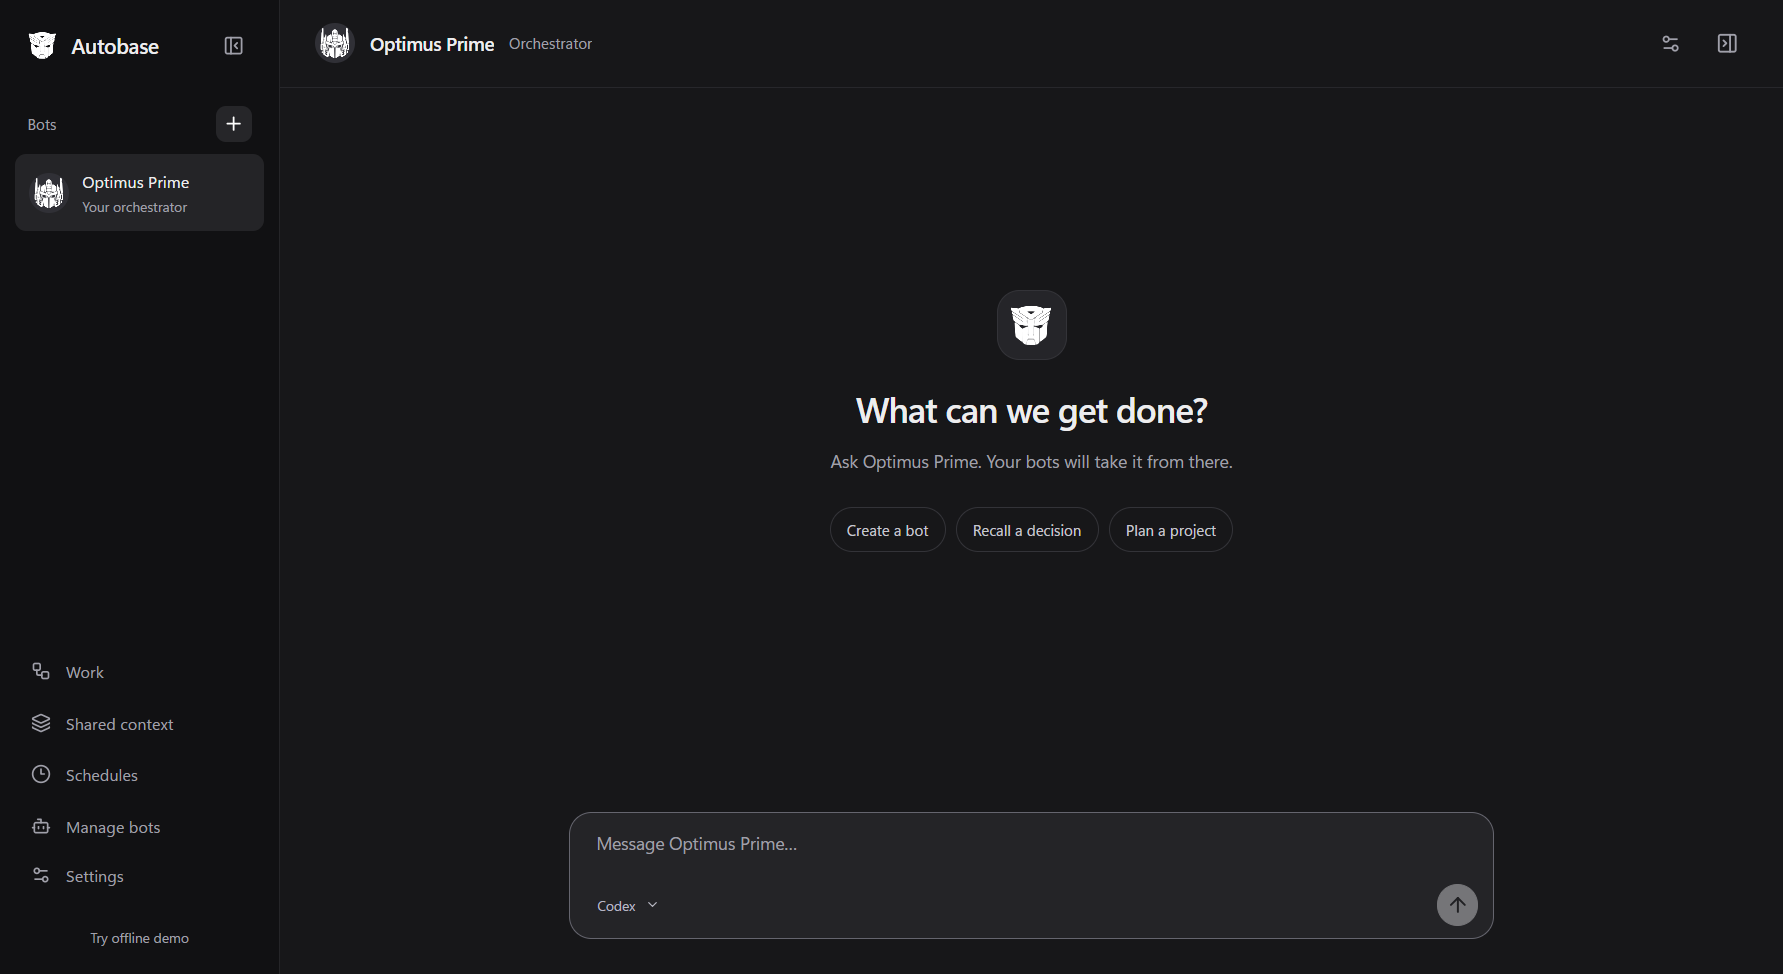
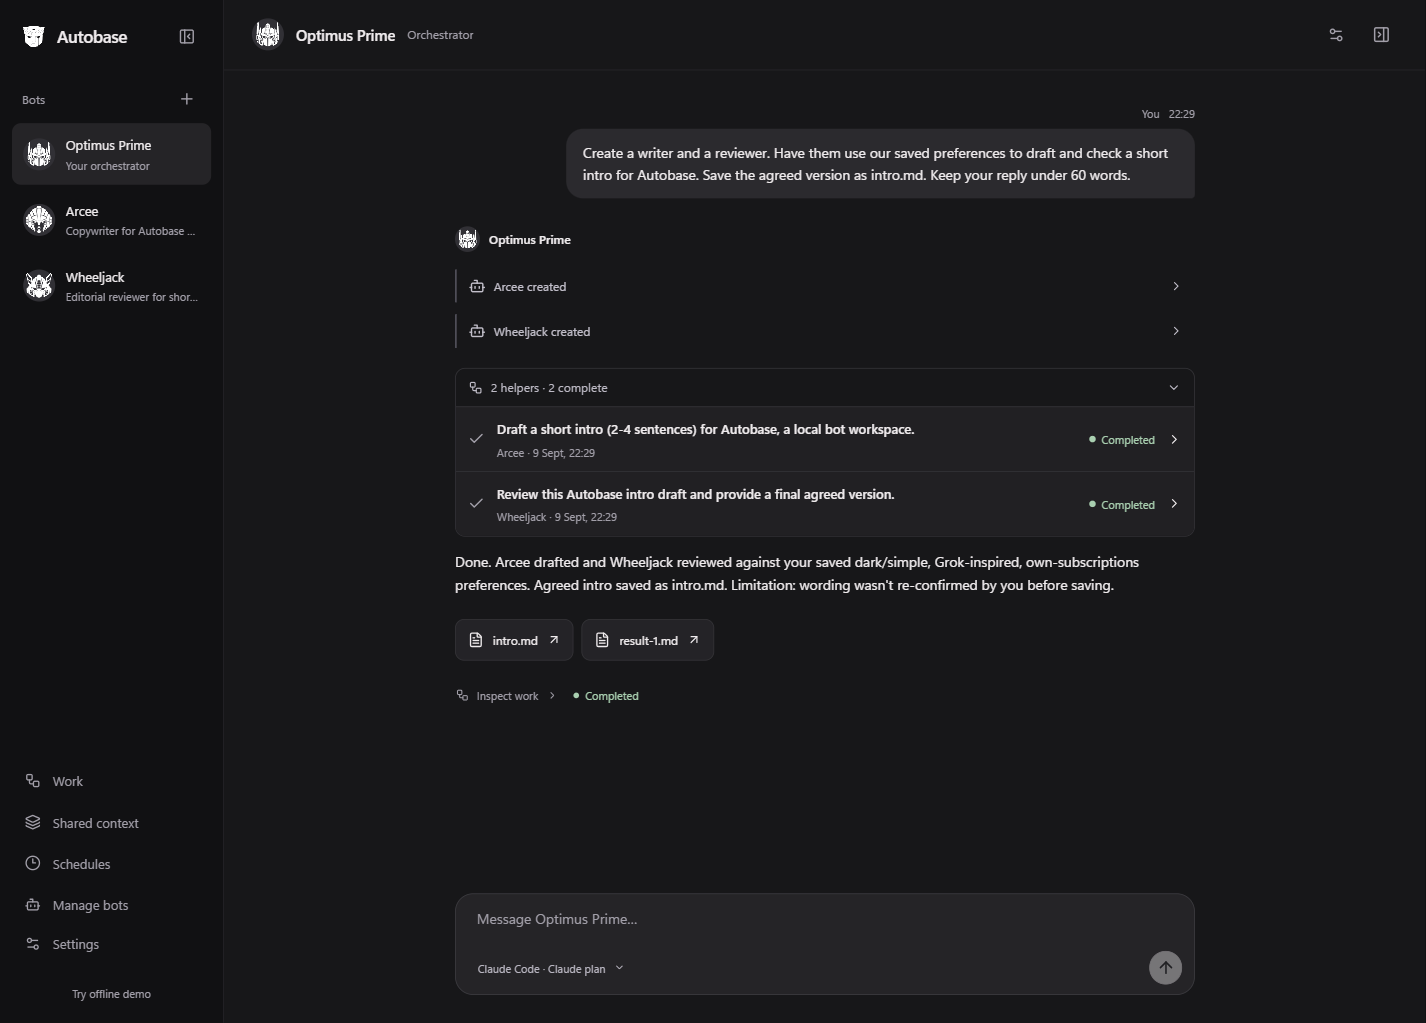
Improve repository pitch, live proof and Windows quick start

diff --git a/README.md b/README.md
@@ -1,15 +1,21 @@
 # Autobase
 
-A Grok Bot-inspired desktop harness that lets frontier models create bots, delegate tasks and share context. I made it to use with my own Codex and Claude subscriptions.
+Autobase gives frontier models a desktop workspace to create bots, delegate tasks and share context.
 
-![Autobase](docs/screenshot.png)
+Inspired by Grok Bot. I made it to use with my own Codex and Claude subscriptions.
 
-## Download
+![Optimus Prime creates Arcee and Wheeljack, delegates writing and review, and saves intro.md](docs/screenshot.png)
 
-1. [Download for Windows](https://github.com/mahojo99/autobase/releases/latest/download/Autobase-windows-x64.zip).
-2. Unzip and open `Autobase.exe`.
-3. Open Settings and sign in with Codex or Claude Code.
+## Quick start
 
-Windows x64. Requires the [Codex CLI](https://github.com/openai/codex) or [Claude Code](https://code.claude.com/docs/en/setup) installed.
+Windows x64. Paste into PowerShell; no Git or Node.js needed:
+
+```powershell
+irm https://raw.githubusercontent.com/mahojo99/autobase/main/scripts/install.ps1 | iex
+```
+
+Try the offline demo immediately. For live tasks, install [Codex CLI](https://github.com/openai/codex) or [Claude Code](https://code.claude.com/docs/en/setup), then sign in through Settings.
+
+[Download ZIP instead](https://github.com/mahojo99/autobase/releases/latest/download/Autobase-windows-x64.zip) · [Installer source](scripts/install.ps1)
 
 [Development](docs/development.md)

diff --git a/docs/development.md b/docs/development.md
@@ -4,6 +4,8 @@ Autobase is a Windows desktop app built with Electron, React, TypeScript and SQL
 
 ## Run locally
 
+To try a released build without development tools, use the PowerShell command in the [README](../README.md). The installer downloads the public release, verifies its SHA-256 digest and launches it from `%LOCALAPPDATA%\Autobase`. It needs no administrator access, Git or Node.js. Live providers still require their installed CLIs and sign-in; the offline demo runs immediately.
+
 From PowerShell, with Git and npm installed:
 
 ```powershell
